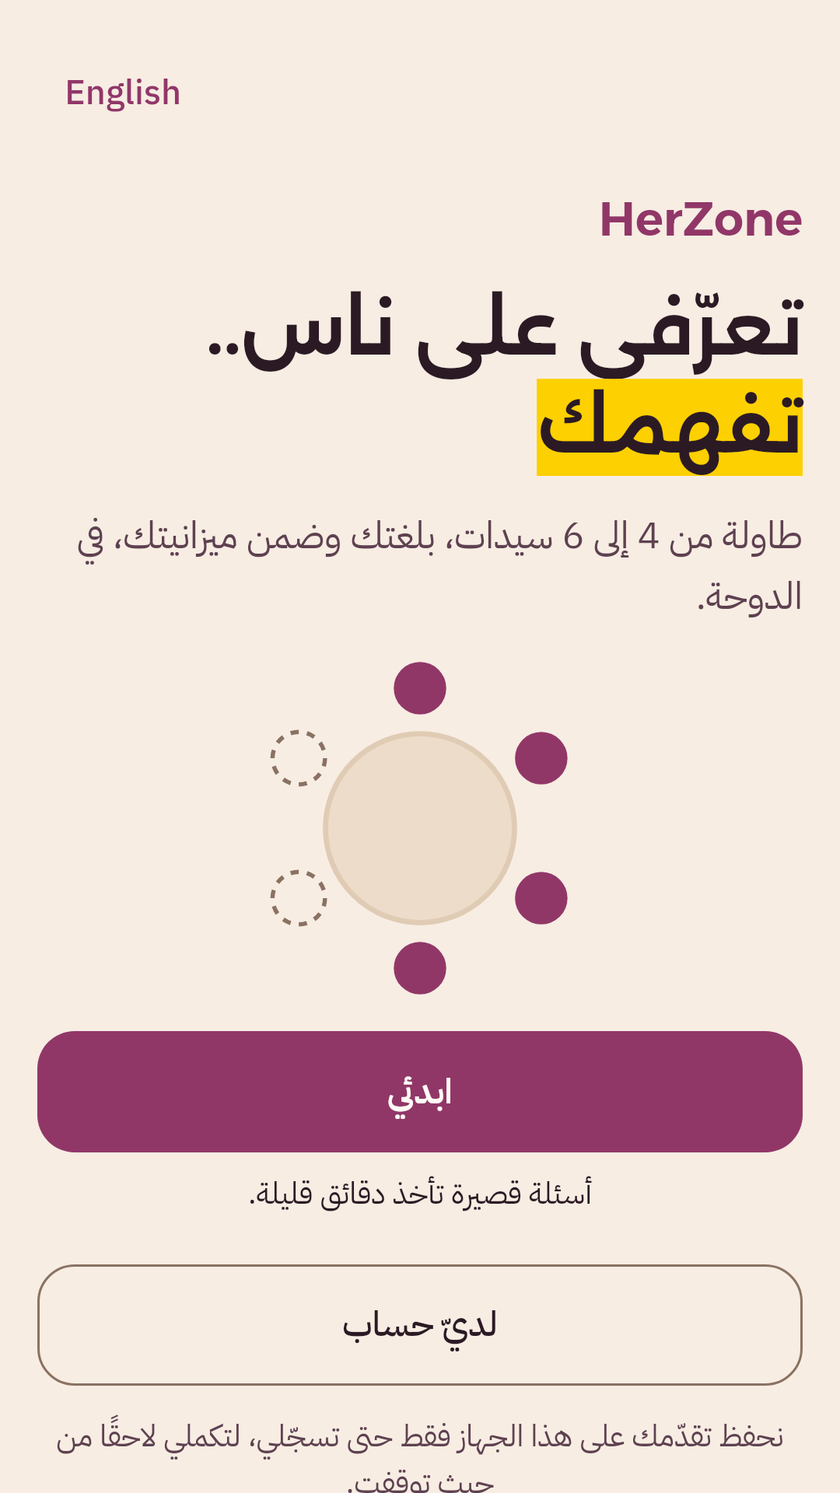
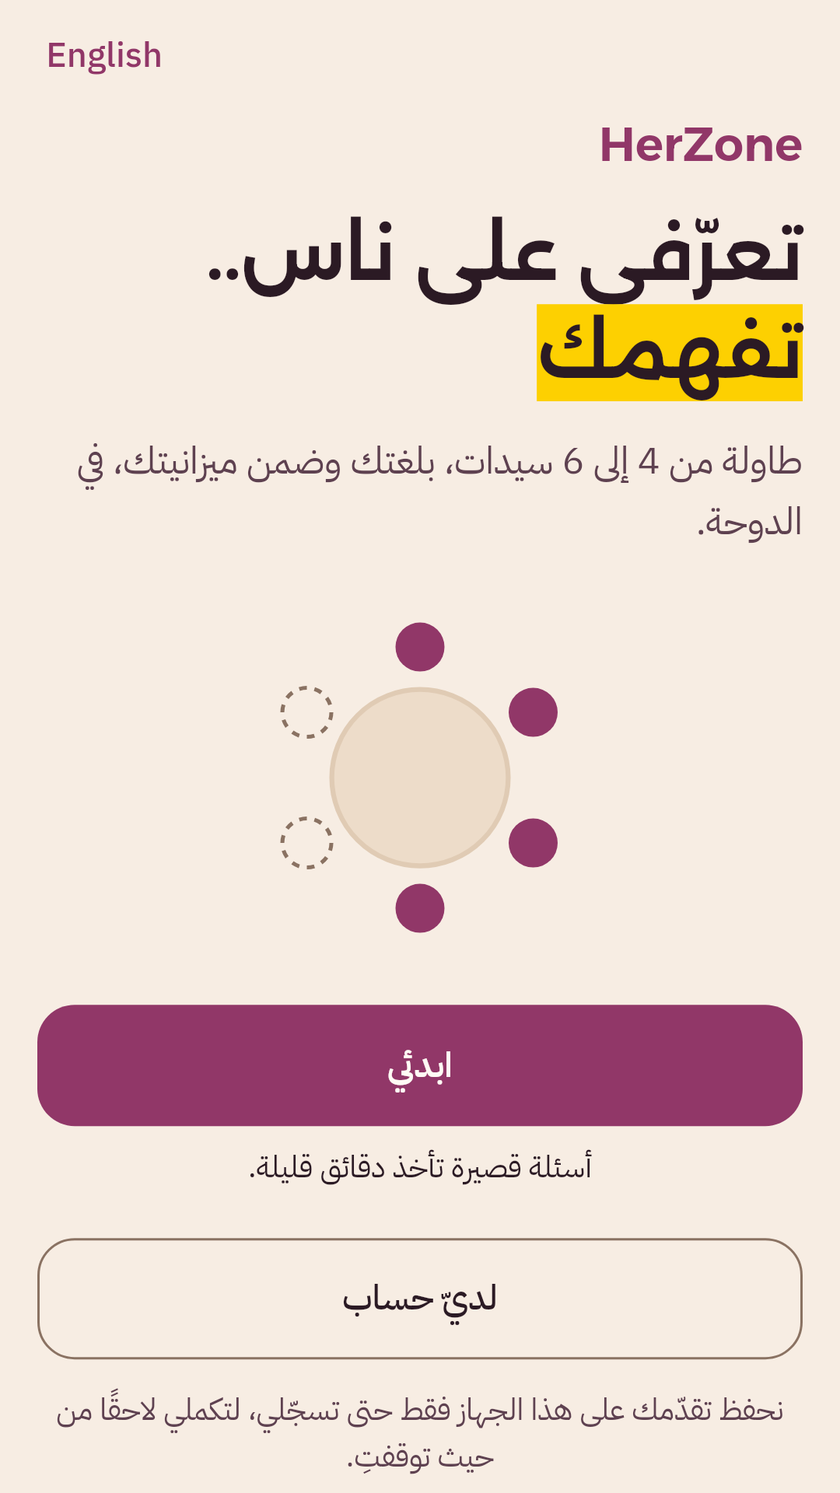
The launch price, said at the last step only; and a shorter welcome
Item 41, the owner's option (أ) with their own wording. A new setting,
PRICING_LAUNCH_FREE (migration 025, shipped off), switches what the member is
told. While it is on:

- The booking review, the last step, shows the amount struck through beside
  "مجاني لفترة محدودة", with "يُخصم المبلغ للتحقق من البطاقة ويُرد إليكِ كاملًا."
  under it.
- The steps before it say nothing about money at all, so she is not asked to
  think about price while she is still deciding to finish: the What-you-get
  page and the session-choice strip carry no amount.

The amount itself is untouched. It is still taken and refunded, so the
card-name check — the real women-only gate — keeps working and the
price_minor > 0 constraint is never approached. A browser test fails if an
amount reappears before the last step, and two app tests cover both states.

The welcome screen also reads shorter: two free-growing gaps left a hole above
and below the table on a tall phone. They are now small and fixed and the block
is centred in the height the phone gives it, so the spare height is an even
margin. On a short phone the block keeps its natural height and the page
scrolls — the first attempt forced a height and cut the last line on Android.

The fee note's id is launch-note, not fee-note: the colour guard reads "#fee"
as a hex colour.

Claude-Session: https://claude.ai/code/session_01FEXgDqNsHx3oP1pnWG1BkE

diff --git a/qatar/app/lib/ui/onboarding/welcome_screen.dart b/qatar/app/lib/ui/onboarding/welcome_screen.dart
@@ -32,38 +32,48 @@ class WelcomeScreen extends StatelessWidget {
           ]));
     return Scaffold(
       body: SafeArea(
-        // scrolls when the text is enlarged or the screen is short, and fills the screen otherwise
         child: LayoutBuilder(
-          builder: (context, box) => SingleChildScrollView(
-            padding: const EdgeInsets.all(HzSpace.gutter),
-            child: ConstrainedBox(
-              constraints: BoxConstraints(minHeight: box.maxHeight - 2 * HzSpace.gutter),
-              child: IntrinsicHeight(
-                child: Column(crossAxisAlignment: CrossAxisAlignment.stretch, children: [
-                  Align(
-                    alignment: AlignmentDirectional.centerEnd,
-                    child: Press(child: TextButton(key: const Key('lang'), onPressed: context.read<LocaleController>().toggle, child: Text(t.language))),
+          builder: (context, box) {
+            // The screen read too long on a tall phone (owner, 11 Nov): two free-growing gaps left a hole above and
+            // below the table. Now the gaps are small and fixed, and the whole block is centred in whatever height the
+            // phone gives it, so the spare height becomes an even margin instead of a hole. On a short phone, or with
+            // enlarged text, the block keeps its natural height and the page scrolls.
+            final avail = box.maxHeight - 2 * HzSpace.gutter;
+            final gap = (avail * 0.045).clamp(HzSpace.s4, HzSpace.s8);
+            final art = (avail * 0.22).clamp(140.0, 220.0);
+            return Stack(children: [
+              SingleChildScrollView(
+                padding: const EdgeInsets.fromLTRB(HzSpace.gutter, HzSpace.s12, HzSpace.gutter, HzSpace.gutter),
+                child: ConstrainedBox(
+                  constraints: BoxConstraints(minHeight: avail - HzSpace.s12),
+                  child: Center(
+                    child: Column(mainAxisSize: MainAxisSize.min, crossAxisAlignment: CrossAxisAlignment.stretch, children: [
+                      Text(t.brand, style: tt.titleLarge?.copyWith(color: c.primary)),
+                      const SizedBox(height: HzSpace.s3),
+                      heroText,
+                      const SizedBox(height: HzSpace.s3),
+                      Text(t.welcomeSub, style: tt.bodyLarge?.copyWith(color: c.textMuted)),
+                      SizedBox(height: gap),
+                      Center(child: TableArt(size: art)),
+                      SizedBox(height: gap),
+                      Press(child: FilledButton(key: const Key('start'), onPressed: () => context.go('/quiz'), child: Text(t.getStarted))),
+                      const SizedBox(height: HzSpace.s2),
+                      Text(t.quizLength, textAlign: TextAlign.center, style: tt.bodySmall),
+                      const SizedBox(height: HzSpace.s5),
+                      Press(child: OutlinedButton(key: const Key('have-account'), onPressed: () => context.go('/sign-in'), child: Text(t.haveAccount))),
+                      const SizedBox(height: HzSpace.s3),
+                      Text(t.deviceNote, textAlign: TextAlign.center, style: tt.bodySmall?.copyWith(color: c.textMuted)),
+                    ]),
                   ),
-                  const SizedBox(height: HzSpace.s4),
-                  Text(t.brand, style: tt.titleLarge?.copyWith(color: c.primary)),
-                  const SizedBox(height: HzSpace.s3),
-                  heroText,
-                  const SizedBox(height: HzSpace.s3),
-                  Text(t.welcomeSub, style: tt.bodyLarge?.copyWith(color: c.textMuted)),
-                  const Spacer(),
-                  const Center(child: Padding(padding: EdgeInsets.symmetric(vertical: HzSpace.s3), child: TableArt(size: 150))),
-                  const Spacer(),
-                  Press(child: FilledButton(key: const Key('start'), onPressed: () => context.go('/quiz'), child: Text(t.getStarted))),
-                  const SizedBox(height: HzSpace.s2),
-                  Text(t.quizLength, textAlign: TextAlign.center, style: tt.bodySmall),
-                  const SizedBox(height: HzSpace.s5),
-                  Press(child: OutlinedButton(key: const Key('have-account'), onPressed: () => context.go('/sign-in'), child: Text(t.haveAccount))),
-                  const SizedBox(height: HzSpace.s3),
-                  Text(t.deviceNote, textAlign: TextAlign.center, style: tt.bodySmall?.copyWith(color: c.textMuted)),
-                ]),
+                ),
               ),
-            ),
-          ),
+              PositionedDirectional(
+                top: 0,
+                end: HzSpace.s2,
+                child: Press(child: TextButton(key: const Key('lang'), onPressed: context.read<LocaleController>().toggle, child: Text(t.language))),
+              ),
+            ]);
+          },
         ),
       ),
     );

diff --git a/qatar/web/app.js b/qatar/web/app.js
@@ -802,12 +802,15 @@ async function scrWhatYouGet() {
     const r = await api("GET", "/api/v1/sessions");
     s = r.ok ? r.data.sessions[0] || null : null;
   }
-  const plan = { kind: "per_seat", fee: s ? s.price.display : null, hours: s ? s.full_refund_until_hours : null };
+  // Item 41 (owner, 11 Nov): nothing about money is said before the last step, so while the launch offer is on this
+  // page carries no fee at all. The amount still exists and is shown, with the offer, on the booking review.
+  const launchFree = Boolean(s && s.launch_free);
+  const plan = { kind: "per_seat", fee: s && !launchFree ? s.price.display : null, hours: s ? s.full_refund_until_hours : null };
   const benefits = [["users", "wyg1t", "wyg1b"], ["map-pin", "wyg2t", "wyg2b"], ["message-circle", "wyg3t", "wyg3b"], ["shield-check", "wyg4t", "wyg4b"], ["hand-heart", "wyg5t", "wyg5b"]];
   view(T("wygTitle"), `
     <h1 class="display-title">${esc(T("wygTitle"))}</h1>
     <section class="card stack" id="plan" data-kind="${plan.kind}">
-      <p class="label">${esc(plan.fee ? T("wygPrice", { fee: plan.fee }) : T("wygPriceNoFee"))}</p>
+      ${launchFree ? "" : `<p class="label">${esc(plan.fee ? T("wygPrice", { fee: plan.fee }) : T("wygPriceNoFee"))}</p>`}
       <ul class="benefits">${benefits.map(([ic, t, b]) => `<li><span class="bi">${icon(ic)}</span><span><strong>${esc(T(t))}</strong><br><span class="muted">${esc(T(b))}</span></span></li>`).join("")}</ul>
     </section>
     <div class="banner banner-info"><span class="icon">${icon("info")}</span><div>${esc(plan.hours ? T("wygRefund", { h: plan.hours }) : T("wygRefundGeneric"))}</div></div>
@@ -958,7 +961,7 @@ async function scrSessions(preselect) {
       <div id="err" role="alert"></div>
     </form>
     <div class="sticky-bar"><div>
-      <span class="caption">${esc(T("priceStrip", { fee: (ok[0] || all[0] || { price: { display: "" } }).price.display }))}</span>
+      ${(ok[0] || all[0] || {}).launch_free ? "" : `<span class="caption">${esc(T("priceStrip", { fee: (ok[0] || all[0] || { price: { display: "" } }).price.display }))}</span>`}
       <button class="btn btn-primary btn-block" id="go" disabled>${esc(T("continueToPay"))}</button></div></div>`);
   $$("[data-exp]").forEach((b) => (b.onclick = () => { store.set("exp", b.dataset.exp); scrSessions(); }));
   wireNotifyMe();
@@ -1043,7 +1046,10 @@ async function scrReview(id) {
       <dt>${esc(T("tableLanguage"))}</dt><dd>${esc(T(e.session.conversation_language === "ar" ? "langAr" : "langEn"))}</dd>
       <dt>${esc(T("groupSizeLabel"))}</dt><dd>${esc(T("groupSize"))}</dd></dl></section>
     <section class="card">
-      <div class="kv"><span>${esc(T("feeNow"))}</span><strong>${esc(b.amount.display)}</strong></div>
+      <div class="kv"><span>${esc(T("feeNow"))}</span>${b.launch_free
+        ? `<span class="fee-offer"><s class="num">${esc(b.amount.display)}</s> <strong>${esc(T("feeLaunchFree"))}</strong></span>`
+        : `<strong>${esc(b.amount.display)}</strong>`}</div>
+      ${b.launch_free ? `<p class="caption" id="launch-note">${esc(T("feeLaunchNote"))}</p>` : ""}
       <div class="kv"><span>${esc(T("foodAtVenue"))}</span><span class="muted">${esc(T("foodBand", { band: e.session.food_price_band.display }))}</span></div>
     </section>
     ${policyHtml(e.booking.cancellation, b.amount.display)}

diff --git a/qatar/web/strings.js b/qatar/web/strings.js
@@ -35,6 +35,8 @@ export const STRINGS = {
     payFailedNext: "يمكنكِ المحاولة مرة أخرى ما دام المقعد محجوزًا.", noCases: "لا توجد قرارات تخصّك.",
     reviewTitle: "راجعي حجزك", experience: "التجربة", dateTime: "الموعد", district: "المنطقة", tableLanguage: "لغة الطاولة", groupSizeLabel: "حجم المجموعة",
     feeNow: "رسم التنظيم (يُدفع الآن)", foodAtVenue: "الطعام والمشروبات (تُدفع للمكان)", foodBand: "ضمن ميزانيتك: {band}",
+    // Item 41, the owner's wording of 11 Nov: said at the last step only, never earlier in the sign-up.
+    feeLaunchFree: "مجاني لفترة محدودة", feeLaunchNote: "يُخصم المبلغ للتحقق من البطاقة ويُرد إليكِ كاملًا.",
     policyBox: "يمكنك الإلغاء مع استرداد كامل حتى {deadline}. إذا لم تكتمل الطاولة نُلغيها ونرد المبلغ كاملًا أو ننقلك لموعد آخر باختيارك.",
     lateTitle: "يبدأ هذا الموعد خلال أقل من {hours} ساعة", lateNone: "إذا ألغيتِ بعد الدفع فلن يُسترد رسم التنظيم ({fee}).",
     latePartial: "إذا ألغيتِ بعد الدفع فسيُسترد {pct}% فقط من رسم التنظيم ({fee}).", lateQuorum: "إذا لم تكتمل الطاولة نُلغيها نحن ونرد المبلغ كاملًا أو ننقلك لموعد آخر باختيارك.",
@@ -180,6 +182,8 @@ export const STRINGS = {
     payFailedNext: "You can try again while the seat is held.", noCases: "There are no decisions about you.",
     reviewTitle: "Review your booking", experience: "Experience", dateTime: "Date & time", district: "Area", tableLanguage: "Table language", groupSizeLabel: "Group size",
     feeNow: "Organising fee (paid now)", foodAtVenue: "Food & drinks (paid to the venue)", foodBand: "Within your budget: {band}",
+    // PROVISIONAL English for the owner's Arabic above
+    feeLaunchFree: "Free for a limited period", feeLaunchNote: "The amount is taken to verify your card and refunded to you in full.",
     policyBox: "You can cancel with a full refund until {deadline}. If the table doesn't fill, we cancel it and refund you in full or move you to another session — your choice.",
     lateTitle: "This session starts in less than {hours} hours", lateNone: "If you cancel after paying, the organising fee ({fee}) isn't refunded.",
     latePartial: "If you cancel after paying, only {pct}% of the organising fee ({fee}) is refunded.", lateQuorum: "If the table doesn't fill, we cancel it and refund you in full or move you to another session — your choice.",

diff --git a/qatar/app/test/booking_test.dart b/qatar/app/test/booking_test.dart
@@ -18,12 +18,14 @@ class Fake {
   final bool late;
   final bool? occasionAllowed; // null: a server that does not say (the question is offered)
   final bool refuseOccasion; // the server answers 422 NOTICE_TOO_SHORT to an occasion
+  /// Item 41: the server says the organising fee is announced as free for a limited period.
+  bool launchFree = false;
   bool paid = false;
   final sent = <String, Map<String, dynamic>>{};
 
   Map<String, dynamic> booking() => {
         'booking_id': 'b1', 'id': 'b1', 'ref': 'RT-NEW1', 'status': paid ? 'paid_awaiting_group' : 'payment_pending',
-        'hold_expires_at': '2026-11-05T20:10:00+03:00', 'amount': {'display': '59 ر.ق'},
+        'hold_expires_at': '2026-11-05T20:10:00+03:00', 'amount': {'display': '59 ر.ق'}, 'launch_free': launchFree,
         'checkout_url': late ? null : 'https://herzone.app/checkout/mock/b1?pi=pi_1',
         'payment': {'status': paid ? 'succeeded' : 'created'},
         'cancellation': {'full_refund_until': '2026-11-10T19:30:00+03:00', 'full_refund_window_open': !late, 'acknowledgement_required': late ? 'late_no_refund' : null},
@@ -149,5 +151,30 @@ void main() {
     f.paid = true;
     await tester.pump(const Duration(seconds: 5));
     await tester.pumpAndSettle();
+  });
+
+  // Item 41, the owner's wording of 11 Nov: at this last step the amount stays visible, struck through, beside
+  // "مجاني لفترة محدودة", with the line that explains it is taken and refunded. Earlier steps say nothing about money.
+  testWidgets('the launch offer: the amount is struck through, never hidden, and the explanation is there', (tester) async {
+    final f = Fake()..launchFree = true;
+    await start(tester, f);
+    await tester.tap(find.byKey(const Key('hold')));
+    await tester.pumpAndSettle();
+    expect(find.byKey(const Key('amount')), findsOneWidget, reason: 'the amount is still shown');
+    final struck = tester.widget<Text>(find.byKey(const Key('amount')));
+    expect(struck.style?.decoration, TextDecoration.lineThrough);
+    expect(find.text('مجاني لفترة محدودة'), findsOneWidget);
+    expect(find.text('يُخصم المبلغ للتحقق من البطاقة ويُرد إليكِ كاملًا.'), findsOneWidget);
+  });
+
+  testWidgets('with the offer off the fee row reads as before', (tester) async {
+    final f = Fake();
+    await start(tester, f);
+    await tester.tap(find.byKey(const Key('hold')));
+    await tester.pumpAndSettle();
+    final plain = tester.widget<Text>(find.byKey(const Key('amount')));
+    expect(plain.style?.decoration, isNot(TextDecoration.lineThrough));
+    expect(find.text('مجاني لفترة محدودة'), findsNothing);
+    expect(find.byKey(const Key('launch-note')), findsNothing);
   });
 }

diff --git a/qatar/api/src/routes/user.js b/qatar/api/src/routes/user.js
@@ -611,6 +611,8 @@ async function listSessions(ctx) {
         my_booking_id: s.my_booking_id,
         // item 32: the occasion question is offered only when the session is far enough away
         occasion_allowed: occasionAllowed(s.starts_at, cfg), occasion_notice_hours: cfg.celebrationNoticeHours,
+        // item 41: during the launch period the fee is announced as free for a limited time, and said only at the last step
+        launch_free: cfg.launchFree,
         waitlist: w && {
           status: w.status, position: offered ? null : w.place,
           offer_expires_at: offered ? qa(w.offer_expires_at) : null,
@@ -760,7 +762,7 @@ async function createBooking(ctx) {
   const terms = await refundTerms(sql, b, s);
   return json(201, { booking_id: b.id, ref: b.booking_ref, status: b.status, hold_expires_at: qa(b.hold_expires_at),
     checkout_url: terms.ackRequired ? null : ctx.psp.checkoutUrl(b.id, p.psp_payment_intent_id), amount: money(b.price_minor, locale),
-    cancellation: termsView(terms) });
+    launch_free: cfg.launchFree, cancellation: termsView(terms) });
 }
 
 async function listBookings(ctx) {
@@ -783,7 +785,7 @@ async function listBookings(ctx) {
 }
 
 async function getBooking(ctx) {
-  const { sql, locale } = ctx;
+  const { sql, locale, cfg } = ctx;
   const b = await ownedBooking(sql, ctx, ctx.params.id);
   const [p] = await sql`SELECT * FROM app.payments WHERE booking_id = ${b.id} ORDER BY created_at DESC LIMIT 1`;
   const holdValid = b.status === "payment_pending" && b.hold_expires_at && new Date(b.hold_expires_at) > new Date();
@@ -792,7 +794,7 @@ async function getBooking(ctx) {
     amount: money(b.price_minor, locale),
     payment: p ? { status: p.status, failure_code: p.failure_code } : null,
     checkout_url: holdValid && !terms.ackRequired && p && p.status === "created" ? ctx.psp.checkoutUrl(b.id, p.psp_payment_intent_id) : null,
-    cancellation: termsView(terms) });
+    launch_free: cfg.launchFree, cancellation: termsView(terms) });
 }
 
 async function newCheckout(ctx) {

diff --git a/qatar/web/styles.css b/qatar/web/styles.css
@@ -353,8 +353,17 @@ body:has(.tabbar:not([hidden])) .toast { bottom: calc(84px + env(safe-area-inset
 body:has(main .quiz-foot) .toast, body:has(main .sticky-bar) .toast { bottom: calc(100px + env(safe-area-inset-bottom)); }
 .kv { display: flex; justify-content: space-between; align-items: baseline; gap: var(--s-3); padding: var(--s-3) 0; border-block-end: 1px solid var(--c-border); }
 .kv:last-child { border-block-end: 0; }
+/* The launch offer (item 41): the amount stays visible, struck through, beside the words the owner chose. Neither part
+   may break in two — a struck "59" above "ر.ق" reads as a mistake — so each stays on one line and the row itself
+   stacks under its label on a narrow phone. */
+.fee-offer { display: inline-flex; align-items: baseline; gap: var(--s-3); flex-wrap: wrap; justify-content: flex-start; }
+.fee-offer s { color: var(--c-textMuted); text-decoration-thickness: 1.5px; white-space: nowrap; }
+.fee-offer strong { color: var(--c-primary); white-space: nowrap; }
+#launch-note { margin: 0; color: var(--c-textMuted); }
 /* narrow phones: a long label and its value sit one above the other instead of both wrapping side by side */
 @media (max-width: 400px) { .kv:has(> .muted) { flex-direction: column; align-items: flex-start; gap: var(--s-1); } }
+/* the fee row always stacks: at any width the struck amount and the offer then sit together on one line under the label */
+.kv:has(> .fee-offer) { flex-direction: column; align-items: flex-start; gap: var(--s-1); }
 /* the seat-hold countdown sits as a small pill just above the pay button */
 #hold:not(:empty) { width: fit-content; margin: var(--s-4) auto var(--s-2); padding: 6px 14px; border-radius: var(--r-pill);
   background: var(--c-primarySubtle); color: var(--c-primary); }

diff --git a/qatar/app/lib/ui/meetups/book_screen.dart b/qatar/app/lib/ui/meetups/book_screen.dart
@@ -156,7 +156,20 @@ class _BookScreenState extends State<BookScreen> with WidgetsBindingObserver {
     } else {
       children.addAll([
         Text(t.reviewTitle, style: tt.titleLarge),
-        ListTile(contentPadding: EdgeInsets.zero, title: Text(t.serviceFee), trailing: Text(bk.amount, key: const Key('amount'), style: const TextStyle(fontWeight: FontWeight.w700))),
+        // Item 41 (owner, 11 Nov): during the launch period the amount stays visible, struck through, beside the
+        // owner's words, and a line explains that it is taken and refunded. Nothing about money is said before this step.
+        ListTile(
+          contentPadding: EdgeInsets.zero,
+          title: Text(t.serviceFee),
+          trailing: bk.launchFree
+              ? Row(mainAxisSize: MainAxisSize.min, children: [
+                  Text(bk.amount, key: const Key('amount'), style: TextStyle(color: c.textMuted, decoration: TextDecoration.lineThrough)),
+                  const SizedBox(width: HzSpace.s2),
+                  Text(t.feeLaunchFree, style: TextStyle(fontWeight: FontWeight.w700, color: c.primary)),
+                ])
+              : Text(bk.amount, key: const Key('amount'), style: const TextStyle(fontWeight: FontWeight.w700)),
+        ),
+        if (bk.launchFree) Text(t.feeLaunchNote, key: const Key('launch-note'), style: tt.bodySmall?.copyWith(color: c.textMuted)),
         Text(t.foodNote, style: tt.bodySmall),
         const SizedBox(height: HzSpace.s3),
         if (bk.holdExpiresAt != null) Text(t.holdUntil(fmtTime(bk.holdExpiresAt!, lang)), style: tt.bodySmall),

diff --git a/qatar/app/lib/data/models.dart b/qatar/app/lib/data/models.dart
@@ -225,11 +225,13 @@ class Coordinator {
 /// A held seat (POST /bookings, GET /bookings/{id}): what the review and payment screens need.
 class BookingStart {
   const BookingStart({required this.id, required this.ref, required this.status, required this.amount, this.holdExpiresAt, this.checkoutUrl,
-      required this.ackRequired, this.fullRefundUntil, required this.refundWindowOpen, this.paymentStatus});
+      required this.ackRequired, this.fullRefundUntil, required this.refundWindowOpen, this.paymentStatus, this.launchFree = false});
 
   final String id, ref, status, amount;
   final String? holdExpiresAt, checkoutUrl, fullRefundUntil, paymentStatus;
   final bool ackRequired, refundWindowOpen;
+  /// Item 41: the organising fee is announced as free for a limited period, and only at this last step.
+  final bool launchFree;
 
   bool get paid => const ['paid_awaiting_group', 'group_locked', 'revealed', 'checked_in', 'completed'].contains(status);
   bool get expired => const ['expired', 'payment_failed', 'cancelled_by_user', 'cancelled_by_organizer'].contains(status);
@@ -248,6 +250,7 @@ class BookingStart {
       fullRefundUntil: c['full_refund_until'] as String?,
       refundWindowOpen: (c['full_refund_window_open'] as bool?) ?? true,
       paymentStatus: (j['payment'] as Map<String, dynamic>?)?['status'] as String?,
+      launchFree: (j['launch_free'] as bool?) ?? false,
     );
   }
 }

diff --git a/qatar/api/src/lib/config.js b/qatar/api/src/lib/config.js
@@ -64,6 +64,11 @@ export async function loadConfig(sql, getEnv) {
     // more before the session starts, so the coordinator can prepare. 0 = no minimum. The site and the app read it from
     // GET /api/v1/sessions (occasion_allowed, occasion_notice_hours).
     celebrationNoticeHours: whole(get("CELEBRATION_NOTICE_HOURS", "72"), 72, 0, 720),
+    // Item 41, the owner's option (ج) of 11 Nov: during the launch period the organising fee is announced as free for
+    // a limited time. The amount is still taken and refunded, so the card-name check — the real women-only gate — keeps
+    // working; only what she is told changes. Nothing about money is said before the last step (owner, 11 Nov). The
+    // site and the app read it from GET /api/v1/sessions and from the booking reply (launch_free).
+    launchFree: String(get("PRICING_LAUNCH_FREE", "false")).trim().toLowerCase() === "true",
   };
   loadedAt = Date.now();
   return cache;

diff --git a/qatar/app/lib/l10n/app_localizations.dart b/qatar/app/lib/l10n/app_localizations.dart
@@ -1310,6 +1310,18 @@ abstract class AppLocalizations {
   /// **'رسم التنظيم'**
   String get serviceFee;
 
+  /// No description provided for @feeLaunchFree.
+  ///
+  /// In ar, this message translates to:
+  /// **'مجاني لفترة محدودة'**
+  String get feeLaunchFree;
+
+  /// No description provided for @feeLaunchNote.
+  ///
+  /// In ar, this message translates to:
+  /// **'يُخصم المبلغ للتحقق من البطاقة ويُرد إليكِ كاملًا.'**
+  String get feeLaunchNote;
+
   /// No description provided for @holdUntil.
   ///
   /// In ar, this message translates to:

diff --git a/qatar/app/lib/l10n/app_localizations_ar.dart b/qatar/app/lib/l10n/app_localizations_ar.dart
@@ -661,6 +661,13 @@ class AppLocalizationsAr extends AppLocalizations {
   String get serviceFee => 'رسم التنظيم';
 
   @override
+  String get feeLaunchFree => 'مجاني لفترة محدودة';
+
+  @override
+  String get feeLaunchNote =>
+      'يُخصم المبلغ للتحقق من البطاقة ويُرد إليكِ كاملًا.';
+
+  @override
   String holdUntil(String time) {
     return 'مقعدك محجوز لكِ حتى $time.';
   }

diff --git a/qatar/app/lib/l10n/app_localizations_en.dart b/qatar/app/lib/l10n/app_localizations_en.dart
@@ -670,6 +670,13 @@ class AppLocalizationsEn extends AppLocalizations {
   String get serviceFee => 'Organising fee';
 
   @override
+  String get feeLaunchFree => 'Free for a limited period';
+
+  @override
+  String get feeLaunchNote =>
+      'The amount is taken to verify your card and refunded to you in full.';
+
+  @override
   String holdUntil(String time) {
     return 'Your seat is held for you until $time.';
   }
